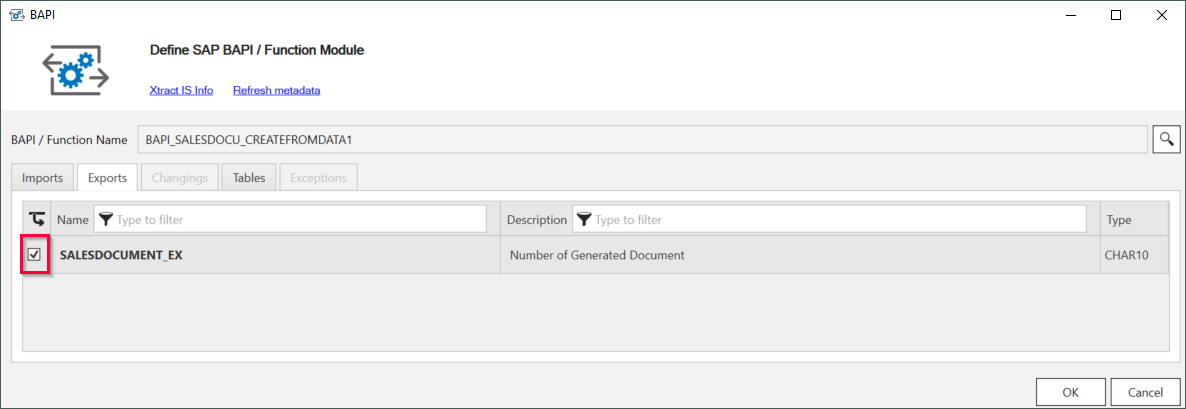
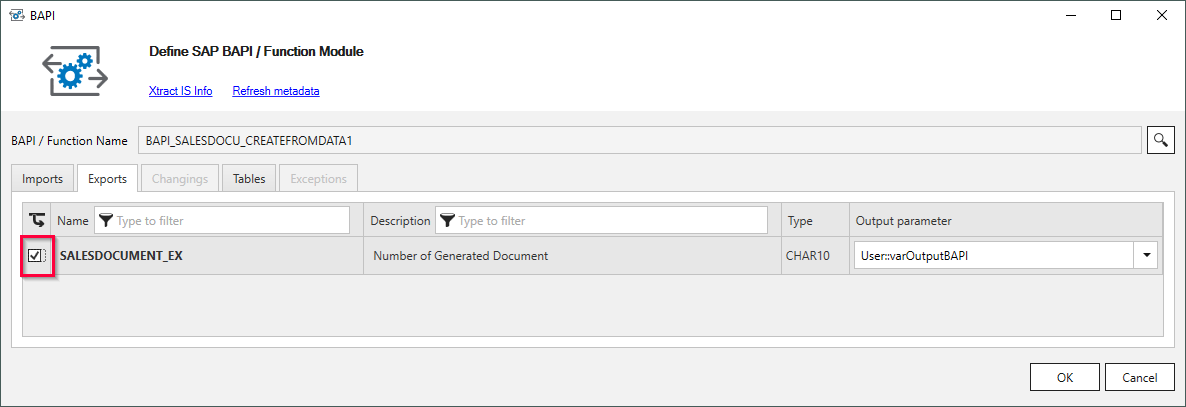
XIS: BAPI output parameters to SSIS variables

diff --git a/_includes/_content/de/bapi/parameters.md b/_includes/_content/de/bapi/parameters.md
@@ -40,7 +40,7 @@ Der gesamten Struktur nur einen Wert zuzuweisen ist nicht möglich.
 
 ### Export-Parameter
 **Exports** repräsentiert die Ausgabewerte, die von SAP zurück an den Client gesendet werden, nachdem die Funktion ausgeführt wurden.<br>
-Im Tab **Exports** können Sie Ausgabeparameter definieren, die entweder als Skalarwerte oder Strukturen übergeben werden.
+Im Tab **Exports** können Sie Ausgabeparameter definieren, die entweder als Skalarwerte oder Strukturen von der Komponente ausgegeben werden.
 
 #### Der Ausgabe Elemente hinzufügen
 Aktivieren Sie die Checkbox in der Ausgabespalte, um ein Element der Ausgabe hinzuzufügen.
@@ -48,6 +48,14 @@ Aktivieren Sie die Checkbox in der Ausgabespalte, um ein Element der Ausgabe hin
 {% if page.product == "xtract-for-alteryx" %}![BAPI export parameters](/img/content/xfa/XfA-Bapi-Exports-Edit.png){:class="img-responsive"} {% elsif page.product == "xtract-is" %}![Define-ExportParams](/img/content/xis/XtractBAPI_ExportParams.png){:class="img-responsive"}{% else %}![BAPI export parameters](/img/content/Bapi-Exports-Edit.png){:class="img-responsive"} {% endif %}
 
 Um die Filterfunktion zu verwenden, geben Sie in der Kopfzeile der Spalten **Name** und **Description** Suchbegriffe ein.<br>
+
+{% if page.product == "xtract-is" %}
+#### Den Ausgabeparametern SSIS Variablen zuweisen
+
+Um einen Ausgabeparameter einer SSIS Variable zuzuweisen, wählen Sie eine existierende SSIS Variable in der Spalte **Output parameter** aus.
+Stellen Sie sicher, dass der Datentyp der SSIS Variable mit dem Datentyp des Ausgabeparameters übereinstimmt.
+
+{% endif %}
 
 ### Changings-Parameter
 

diff --git a/_includes/_content/en/bapis-and-function-modules/bapi-extraction-define.md b/_includes/_content/en/bapis-and-function-modules/bapi-extraction-define.md
@@ -23,7 +23,7 @@ The main window of the {% if page.product == "xtract-for-alteryx" or page.produc
 You can enter scalar values (1) or structures (2).
 {% if page.product == "xtract-for-alteryx" %}![Define-Bapi-Data-Source](/img/content/xfa/XfA-BAPI-Parameters.png){:class="img-responsive"}{% elsif page.product == "xtract-is" %}![Define-Bapi-Data-Source](/img/content/xis/XtractBAPI_ImportParams.png){:class="img-responsive"}{% else %}![Define-Bapi-Data-Source](/img/content/XU-BAPI-Parameters.png){:class="img-responsive"} {% endif %}
 2. Define the output to receive from SAP in **Exports**, see [Export Parameters](./parameters#export-parameters). <br>
-Select output by activating the checkbox next to the items.
+Select output by activating the checkbox next to the items. {% if page.product == "xtract-is" %}You can assign the output to an existing SSIS variable in the column **Output parameter**. {% endif %}
 {% if page.product == "xtract-for-alteryx" %}![BAPI export parameters](/img/content/xfa/XfA-Bapi-Exports-Edit.png){:class="img-responsive"} {% elsif page.product == "xtract-is" %}![Define-Bapi-Data-Source](/img/content/xis/XtractBAPI_ExportParams.png){:class="img-responsive"} {% else %}![BAPI export parameters](/img/content/Bapi-Exports-Edit.png){:class="img-responsive"} {% endif %}
 3. Optional: If available, define input and output parameters in **Changings**, see [Changings Parameters](./parameters#changings-parameters).
 4. Add tables to the output or add table parameters as input in **Tables**, see [Table Parameters](./parameters#table-parameters). <br>

diff --git a/_includes/_content/en/bapis-and-function-modules/parameters.md b/_includes/_content/en/bapis-and-function-modules/parameters.md
@@ -47,6 +47,13 @@ Mark the checkbox in the output column to add an item to the output.
 
 To use the filtering function, enter text in the headers of the columns **Name** and **Description**. <br>
 
+{% if page.product == "xtract-is" %}
+#### Assign Output Parameters to SSIS Variables
+
+To assign an output parameter of a BAPI or function module to an SSIS variable, select an existing SSIS variable in the column **Output parameter**. 
+Make sure that the data type of the SSIS variable matches the datatype of the output parameter.
+{% endif %}
+
 ### Changing Parameters
 
 Changing parameters represent parameters that can be used for input and output. <br>

diff --git a/content/_de/xtract-is/xtract-is-bapi/parameter.md b/content/_de/xtract-is/xtract-is-bapi/parameter.md
@@ -29,3 +29,4 @@ Einige SAP-Funktionsmodule erfordern diese Commit-Funktion, um Daten in der Date
 #### Weiterführende Links
 - [How to Post Data in SAP with Xtract BAPI](https://kb.theobald-software.com/bapis/xtract-is-how-to-post-data-in-sap)
 - [Uploading CATS data by using Xtract IS BAPI](https://kb.theobald-software.com/bapis/xtract-is-uploading-cats-data)
+

diff --git a/content/_en/xtract-is/bapi/parameters.md b/content/_en/xtract-is/bapi/parameters.md
@@ -29,3 +29,4 @@ Some SAP Function Modules require this commit function to successfully update da
 #### Related Links
 - [How to Post Data in SAP with Xtract BAPI](https://kb.theobald-software.com/bapis/xtract-is-how-to-post-data-in-sap)
 - [Uploading CATS data by using Xtract IS BAPI](https://kb.theobald-software.com/bapis/xtract-is-uploading-cats-data)
+

diff --git a/content/_en/xtract-is/bapi/look-up-bapis.md b/content/_en/xtract-is/bapi/look-up-bapis.md
@@ -10,6 +10,7 @@ weight: 1
 lang: en_GB
 old_url: /Xtract-IS-EN/default.aspx?pageid=look-up-bapis
 ---
+
 The following section shows how to use the Xtract BAPI Component.
 
 {% include _content/en/bapis-and-function-modules/bapi-extraction-define.md %}
